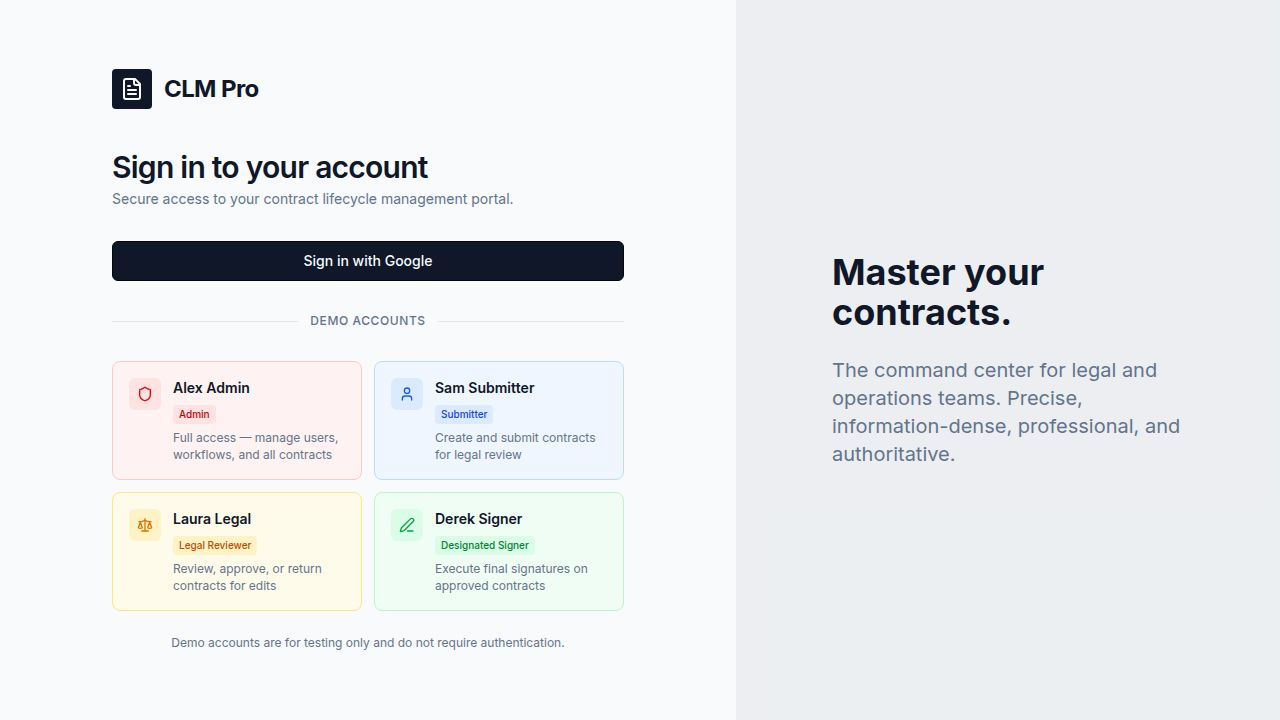
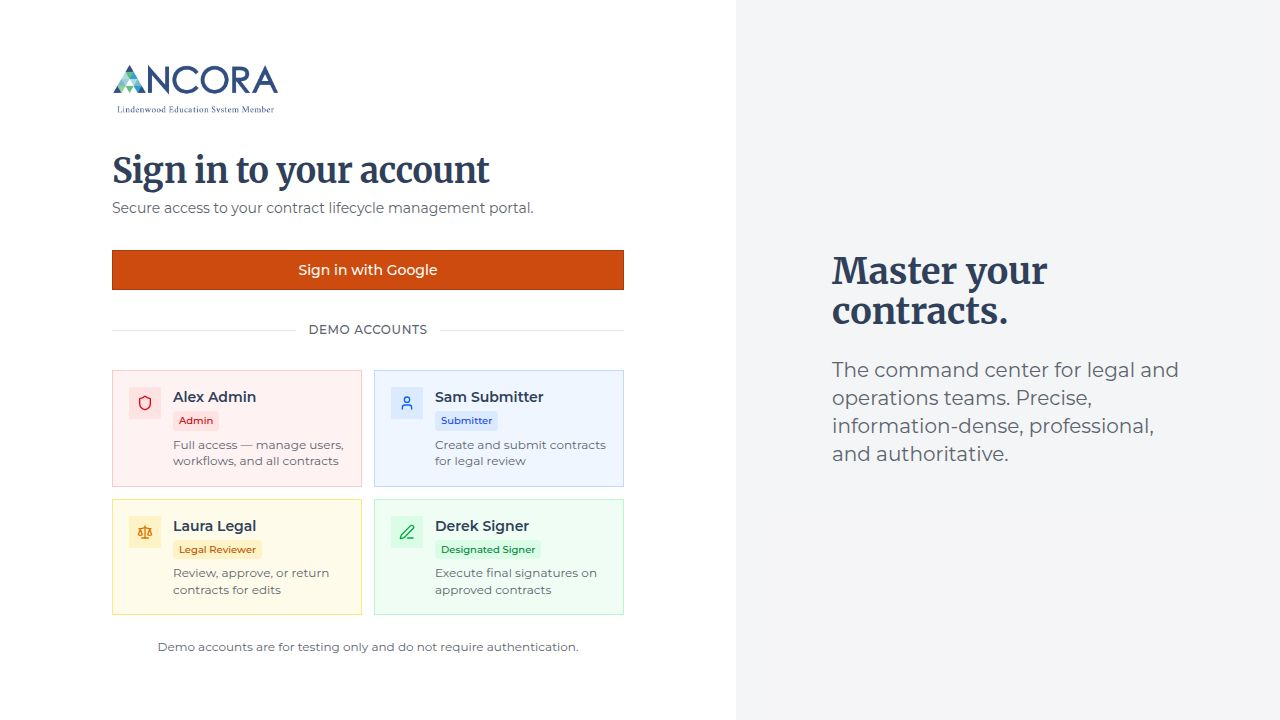
Apply Ancora brand identity to the application's user interface
Update the application's styling to match the Ancora brand guidelines, including new logo, color palette, typography, and button styles.

Replit-Commit-Author: Agent
Replit-Commit-Session-Id: b4d216d4-106c-4b28-bd08-f3fad46110de
Replit-Commit-Checkpoint-Type: full_checkpoint
Replit-Commit-Event-Id: abf57f5a-7a2a-4c21-a8fb-d7a568053250
Replit-Commit-Screenshot-Url: https://storage.googleapis.com/screenshot-production-us-central1/a0c2a66a-438a-4601-8286-f5d45f5fadd5/b4d216d4-106c-4b28-bd08-f3fad46110de/MkYGPr3
Replit-Helium-Checkpoint-Created: true

diff --git a/artifacts/clm-app/src/index.css b/artifacts/clm-app/src/index.css
@@ -75,56 +75,62 @@
   --elevate-1: rgba(0,0,0, .03);
   --elevate-2: rgba(0,0,0, .08);
 
-  --background: 210 40% 98%;
-  --foreground: 222 47% 11%;
-  
-  --border: 214 32% 91%;
-  --input: 214 32% 91%;
-  --ring: 222 47% 11%;
-  
+  /* Ancora brand */
+  --background: 0 0% 100%;
+  --foreground: 218 30% 27%; /* Navy #303F59 */
+
+  --border: 220 13% 91%;
+  --input: 220 13% 91%;
+  --ring: 19 87% 43%; /* Burnt orange focus ring */
+
   --card: 0 0% 100%;
-  --card-foreground: 222 47% 11%;
-  --card-border: 214 32% 91%;
-  
+  --card-foreground: 218 30% 27%;
+  --card-border: 220 13% 91%;
+
   --popover: 0 0% 100%;
-  --popover-foreground: 222 47% 11%;
-  --popover-border: 214 32% 91%;
-  
-  --primary: 222 47% 11%;
-  --primary-foreground: 210 40% 98%;
-  
-  --secondary: 210 40% 96.1%;
-  --secondary-foreground: 222 47% 11.2%;
-  
-  --muted: 210 40% 96.1%;
-  --muted-foreground: 215.4 16.3% 46.9%;
-  
-  --accent: 189 94% 43%;
+  --popover-foreground: 218 30% 27%;
+  --popover-border: 220 13% 91%;
+
+  /* Primary = Ancora navy #303F59 (used for headings, sidebar branding, etc.) */
+  --primary: 218 30% 27%;
+  --primary-foreground: 0 0% 100%;
+
+  /* Secondary = light gray #F1F2F5 with text #3F444B */
+  --secondary: 225 13% 95%;
+  --secondary-foreground: 215 9% 27%;
+
+  --muted: 225 13% 95%;
+  --muted-foreground: 215 9% 40%;
+
+  /* Accent = Burnt orange #CD4B0E (primary buttons / CTAs) */
+  --accent: 19 87% 43%;
   --accent-foreground: 0 0% 100%;
-  
-  --destructive: 0 84.2% 60.2%;
-  --destructive-foreground: 210 40% 98%;
-  
+
+  --destructive: 0 84% 60%;
+  --destructive-foreground: 0 0% 100%;
+
   --sidebar: 0 0% 100%;
-  --sidebar-foreground: 222 47% 11%;
-  --sidebar-border: 214 32% 91%;
-  --sidebar-primary: 222 47% 11%;
-  --sidebar-primary-foreground: 210 40% 98%;
-  --sidebar-accent: 210 40% 96.1%;
-  --sidebar-accent-foreground: 222 47% 11%;
-  --sidebar-ring: 222 47% 11%;
+  --sidebar-foreground: 218 30% 27%;
+  --sidebar-border: 220 13% 91%;
+  --sidebar-primary: 218 30% 27%;
+  --sidebar-primary-foreground: 0 0% 100%;
+  --sidebar-accent: 225 13% 95%;
+  --sidebar-accent-foreground: 218 30% 27%;
+  --sidebar-ring: 19 87% 43%;
 
-  --chart-1: 221 83% 53%;
-  --chart-2: 189 94% 43%;
-  --chart-3: 152 69% 31%;
-  --chart-4: 43 100% 50%;
-  --chart-5: 350 89% 60%;
+  /* Charts: Ancora navy, dark blue, burnt orange + complementary tones */
+  --chart-1: 218 30% 27%;
+  --chart-2: 224 43% 36%;
+  --chart-3: 19 87% 43%;
+  --chart-4: 215 9% 40%;
+  --chart-5: 195 35% 55%;
 
-  --app-font-sans: 'Inter', ui-sans-serif, system-ui, -apple-system, BlinkMacSystemFont, "Segoe UI", Roboto, "Helvetica Neue", Arial, sans-serif;
-  --app-font-serif: Georgia, serif;
+  --app-font-sans: 'Montserrat', ui-sans-serif, system-ui, -apple-system, BlinkMacSystemFont, "Segoe UI", Roboto, "Helvetica Neue", Arial, sans-serif;
+  --app-font-serif: 'Merriweather', Georgia, serif;
   --app-font-mono: Menlo, monospace;
-  
-  --radius: 0.5rem;
+
+  /* Sharp corners per Ancora brand */
+  --radius: 0px;
   
   --primary-border: hsl(from hsl(var(--primary)) h s calc(l + var(--opaque-button-border-intensity)) / alpha);
   --secondary-border: hsl(from hsl(var(--secondary)) h s calc(l + var(--opaque-button-border-intensity)) / alpha);
@@ -189,5 +195,24 @@
   }
   body {
     @apply font-sans antialiased bg-background text-foreground;
+    font-size: 13px;
+    line-height: 1.55;
+  }
+  h1 {
+    font-family: var(--app-font-serif);
+    font-weight: 700;
+    font-size: 50px;
+    line-height: 1.1;
+    letter-spacing: -0.01em;
+  }
+  h2 {
+    font-family: var(--app-font-serif);
+    font-weight: 700;
+    font-size: 20px;
+    line-height: 1.3;
+  }
+  h3, h4, h5, h6 {
+    font-family: var(--app-font-serif);
+    font-weight: 700;
   }
 }

diff --git a/artifacts/clm-app/src/pages/login.tsx b/artifacts/clm-app/src/pages/login.tsx
@@ -101,14 +101,16 @@ export default function Login() {
         <div className="flex-1 flex flex-col justify-center px-6 py-12 lg:px-20 xl:px-24 overflow-y-auto">
           <div className="mx-auto w-full max-w-lg">
             {/* Logo */}
-            <div className="flex items-center gap-3 mb-10">
-              <div className="w-10 h-10 bg-primary rounded flex items-center justify-center text-primary-foreground">
-                <FileText className="w-6 h-6" />
-              </div>
-              <h2 className="text-2xl font-bold tracking-tight">CLM Pro</h2>
+            <div className="flex items-center mb-10">
+              <img
+                src="/ancora-logo.webp"
+                alt="Ancora"
+                className="h-12 w-auto select-none"
+                draggable={false}
+              />
             </div>
 
-            <h1 className="text-3xl font-semibold tracking-tight text-foreground mb-1">
+            <h1 className="!text-[34px] mb-2 text-foreground">
               Sign in to your account
             </h1>
             <p className="text-sm text-muted-foreground mb-8">

diff --git a/artifacts/clm-app/src/components/layout/sidebar.tsx b/artifacts/clm-app/src/components/layout/sidebar.tsx
@@ -33,11 +33,13 @@ function NavContent({ onNavigate }: { onNavigate?: () => void }) {
 
   return (
     <div className="flex flex-col h-full">
-      <div className="p-4 font-bold text-xl tracking-tight text-sidebar-foreground flex items-center gap-2">
-        <div className="w-8 h-8 bg-primary rounded flex items-center justify-center text-primary-foreground shrink-0">
-          <FileText className="w-5 h-5" />
-        </div>
-        CLM Pro
+      <div className="px-4 pt-5 pb-4 border-b border-sidebar-border">
+        <img
+          src="/ancora-logo.webp"
+          alt="Ancora"
+          className="h-9 w-auto select-none"
+          draggable={false}
+        />
       </div>
 
       <div className="px-4 py-2">

diff --git a/artifacts/clm-app/index.html b/artifacts/clm-app/index.html
@@ -7,7 +7,7 @@
     <link rel="icon" type="image/svg+xml" href="/favicon.svg" />
     <link rel="preconnect" href="https://fonts.googleapis.com">
     <link rel="preconnect" href="https://fonts.gstatic.com" crossorigin>
-    <link href="https://fonts.googleapis.com/css2?family=Inter:wght@400;500;600;700&display=swap" rel="stylesheet">
+    <link href="https://fonts.googleapis.com/css2?family=Merriweather:wght@400;700&family=Montserrat:wght@400;500;600;700&display=swap" rel="stylesheet">
   </head>
   <body>
     <div id="root"></div>

diff --git a/artifacts/clm-app/src/components/ui/button.tsx b/artifacts/clm-app/src/components/ui/button.tsx
@@ -11,8 +11,8 @@ const buttonVariants = cva(
     variants: {
       variant: {
         default:
-           // @replit: no hover, and add primary border
-           "bg-primary text-primary-foreground border border-primary-border",
+           // Ancora primary buttons use the burnt-orange accent color
+           "bg-accent text-accent-foreground border border-accent-border",
         destructive:
           "bg-destructive text-destructive-foreground shadow-sm border-destructive-border",
         outline:
